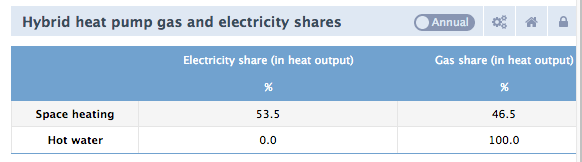
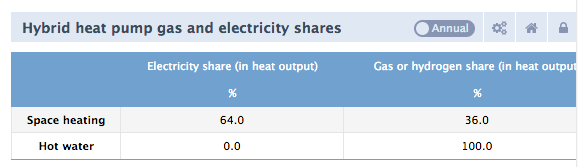
Adjust documentation: changing output temp HHP to 45 degrees

diff --git a/general/heat_pumps.md b/general/heat_pumps.md
@@ -3,7 +3,7 @@
 Below you can find more information about the heat pumps that are modeled in the Energy Transition Model. It gives insight in the [temperature dependency of the COP](#Temperature-dependency-of-COP) of different heat pumps and [heat buffers](#Buffers) for hot water and space heating.  
 
 ## Temperature dependency of COP
-Heat pumps extract heat from air or water:
+Heat pumps uses electricity to efficiently extract heat from air or water. The ETM models three types of heat pumps:
 * [Air-source heat pumps](#Air-source-heat-pumps) (Air)
 * [Hybrid heat pumps](#Hybrid-heat-pumps) (Air)
 * [Ground-source heat pumps](#Ground-source-heat-pump) (Water)
@@ -41,13 +41,15 @@ Where T is the ambient temperature.
 More information about the sources behind specifications of heat pump ground can be found here: [Documentation heat pump air - space heating](https://github.com/quintel/etdataset/blob/master/nodes_source_analyses/households/households_space_heater_heatpump_air_water_electricity.converter.xlsx) and here: [Documentation heat pump air - hot water](https://github.com/quintel/etdataset/blob/master/nodes_source_analyses/households/households_water_heater_heatpump_air_water_electricity.converter.xlsx).
 
 ### Hybrid heat pumps
-For temperature dependency of COP of hybrid heat pumps (HHPs) different parameters are used than for air-source heat pumps (ASHPs). HHPs are most often installed in less insulated houses compared to air-source heat pumps and additionally these houses have different heat delivery systems, so the required output temperature of HHPs is higher than for ASHPs. Instead of 35°C output temperature, which is used for ASHPs, we assumed 44°C output temperature for HHPs. With this output temperature and the cost-optimal threshold COP (about the threshold COP you can find more information below), the HHP electricity share for houses with energylabel B is 53.5%. 
+For temperature dependency of COP of hybrid heat pumps (HHPs) different parameters are used than for air-source heat pumps (ASHPs). HHPs are most often installed in less insulated houses compared to air-source heat pumps and additionally these houses have different heat delivery systems, so the required output temperature of HHPs is higher than for ASHPs. Instead of 35°C output temperature, which is used for ASHPs, we assumed 45°C output temperature for HHPs. With this output temperature and the cost-optimal threshold COP (about the threshold COP you can find more information below), the HHP electricity share for houses with energylabel B is 64%. 
+
+![](../images/20200402_COP_hhp_outside_temp.png)
 
 ![](../images/20200401_hhp_gas_elec_share.png)
 
 The equation used is:
 
-`  COP (T) = 2.277 + 0.0564 * T  		(3)`
+`  COP (T) = 2.323 + 0.0578 * T  		(3)`
 
 More information about the sources behind specifications of HHPs (on gas) ground can be found here: [Documentation hybrid heat pump (gas) - space heating](https://github.com/quintel/etdataset/blob/master/nodes_source_analyses/households/households_space_heater_hybrid_heatpump_air_water_electricity.converter.xlsx), and here: [Documentation hybrid heat pump (gas) - hot water](https://github.com/quintel/etdataset/blob/master/nodes_source_analyses/households/households_water_heater_hybrid_heatpump_air_water_electricity.converter.xlsx)
 
